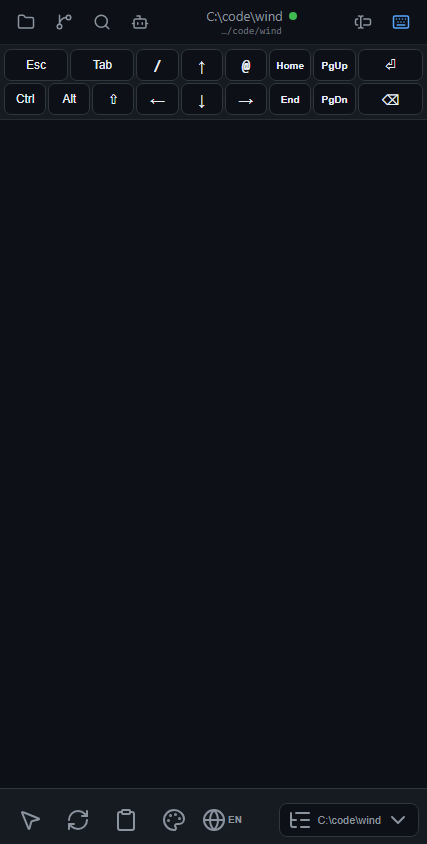
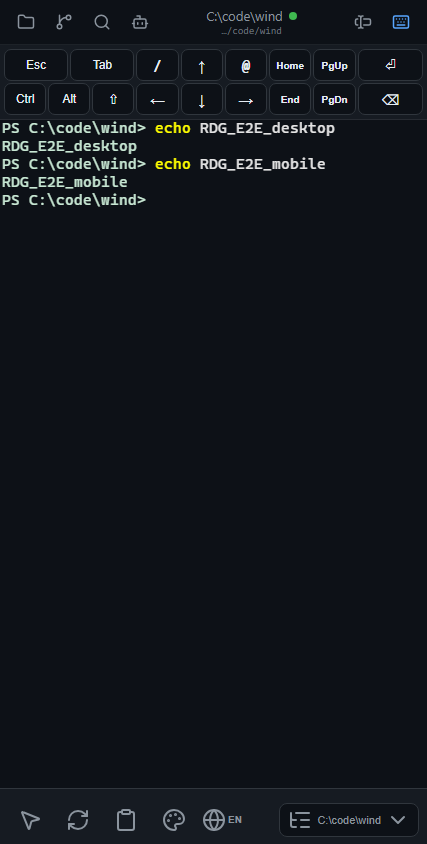
docs(remote): record LAN input smoke

diff --git a/docs/iterations/2026-08-05-iteration-171-remote-link-fluidity.md b/docs/iterations/2026-08-05-iteration-171-remote-link-fluidity.md
@@ -96,6 +96,11 @@ removes transport head-of-line blocking without adding a second connection.
   split warnings through the PowerShell stderr wrapper).
 - `pnpm check` — 0 errors, 0 warnings; iteration gate and requirements gate
   both report `ok: true`/`executable: true`.
+- `pnpm e2e:rdg-lan` (2026-08-05) — desktop and mobile browser clients both
+  passed with `browserErrors=[]`; real WebSocket traffic included input and
+  resize (`desktop write_to_pty=21`, `mobile write_to_pty=3`). Evidence:
+  `.iteration/artifacts/rdg-remote-e2e/last-result.json`. This is controlled
+  LAN evidence, not a physical public WebRTC/PWA soak.
 - Public phone/PWA soak remains an external acceptance gate.
 
 ## Release status

diff --git a/docs/PROJECT-STATE.md b/docs/PROJECT-STATE.md
@@ -21,6 +21,10 @@
 - Public HTTP startup remains route/proxy-sensitive (direct fetch is much
   faster than the configured proxy). This is not evidence about WebRTC data
   channel latency. Physical phone/PWA pane-switch and input soak remains open.
+- Controlled LAN browser smoke on 2026-08-05 passed for desktop and mobile:
+  `canvas/tree/ws` gates, real `write_to_pty` and `resize_pane`, and no browser
+  errors. Evidence: `.iteration/artifacts/rdg-remote-e2e/last-result.json`.
+  This does not close the physical public WebRTC/PWA gate.
 
 Archive: `docs/iterations/2026-08-05-iteration-171-remote-link-fluidity.md`.
 
